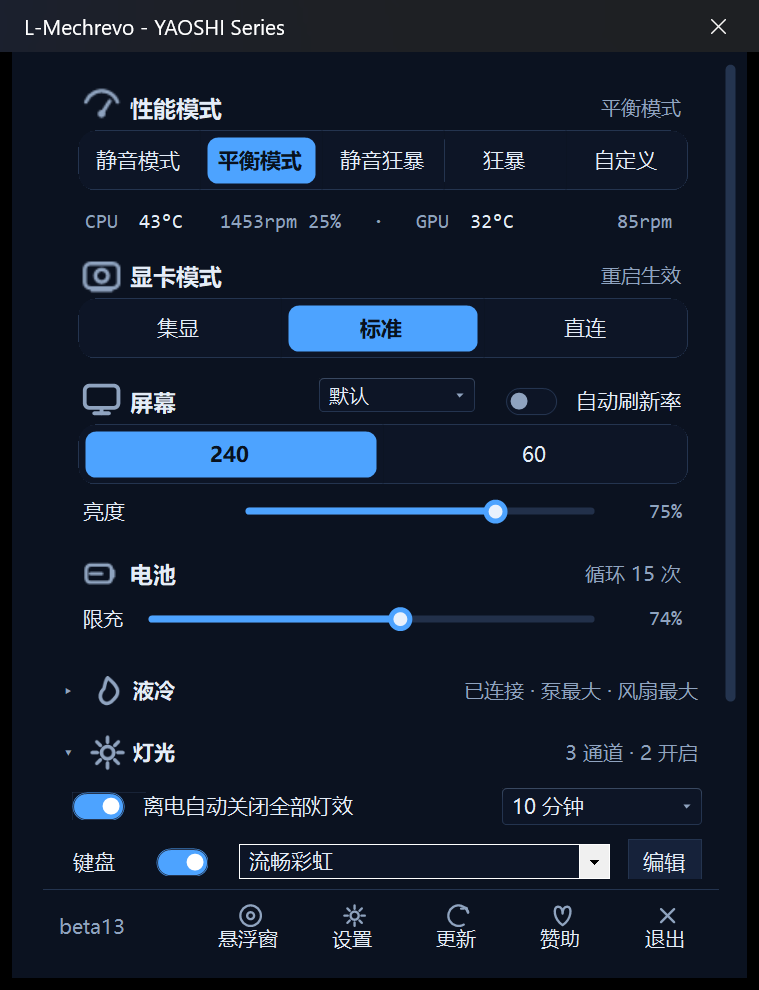
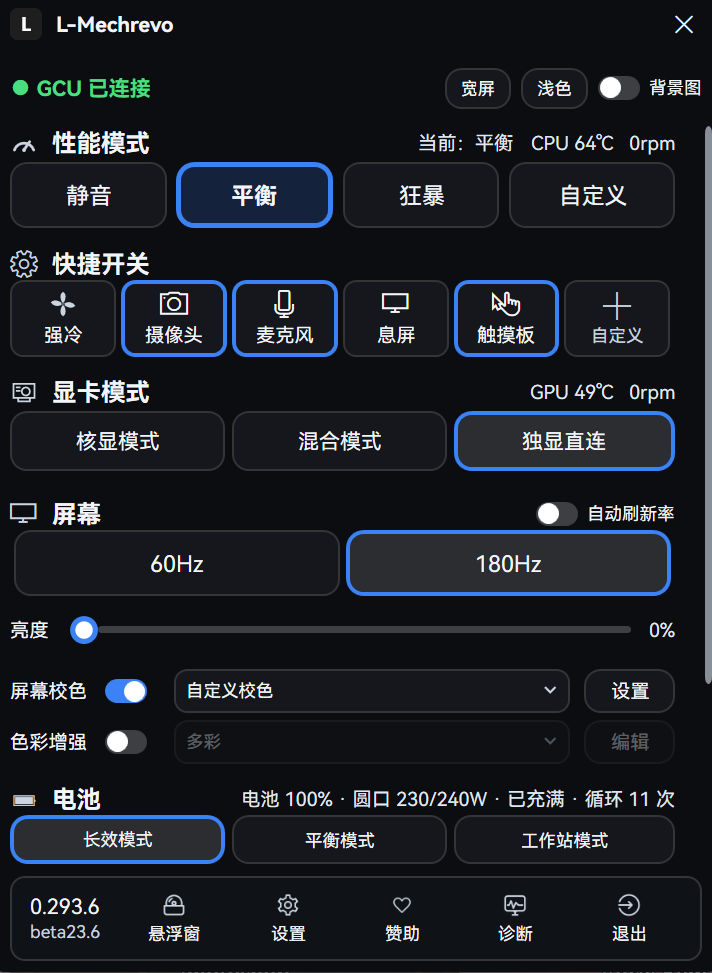
docs(readme): 更新迷你窗/宽屏总览、多配置自定义、外观设置与鸣谢引用

Changed region(s): [[0.0, 0.0, 1.0, 1.0], [0.927, 0.0, 0.9579, 0.0308]]

diff --git a/README.en.md b/README.en.md
@@ -6,9 +6,31 @@ L-Mechrevo is an open-source control center for Mechrevo laptops (Mechrevo / Uni
 
 ## Interface overview
 
-The main window is a scrollable dashboard. Top to bottom: performance modes, live telemetry, GPU mode, display, battery, liquid cooling, lighting, and extra switches. The footer holds the hardware overlay toggle, settings, update check, donate, and exit. Each section header has an arrow that collapses or expands it, and the collapsed state is remembered.
+The main window comes in two layouts, **compact** and **wide**, with the same controls and different information density:
 
-<img src="docs/images/1-dashboard.png" width="420" alt="Main dashboard">
+- Compact: a small vertical window for everyday tray use.
+- Wide: a horizontal dashboard for keeping full telemetry and settings on screen.
+- Both support collapsible sections, hotkeys, the hardware overlay and tray actions.
+
+<p>
+<img src="docs/images/1-dashboard.png" width="330" alt="Compact window">
+<img src="docs/images/1-dashboard-wide.png" width="760" alt="Wide dashboard">
+</p>
+
+### Appearance
+
+The UI is not limited to a fixed light/dark pair:
+
+- **Light / dark / follow system** modes.
+- **Accent color** from presets or a custom color.
+- **Background image** for the compact window and the wide window separately.
+- **Opacity** for the background, backdrop, footer, cards and buttons.
+- **Background overlay** strength for text readability.
+- **Wide-only background** so the wide layout can use a different image.
+
+<img src="docs/images/settings-appearance.png" width="520" alt="Appearance settings">
+
+<img src="docs/images/mini-background.png" width="300" alt="Custom background example">
 
 ## Features
 
@@ -26,9 +48,9 @@ The performance section on the dashboard shows segmented buttons. Tap to switch;
 
 The tray right-click menu can switch modes too, with entries "Silent (Office)", "Balanced (Game)", and "Turbo (Enhanced)". The active mode gets a check mark.
 
-### Custom performance mode (4 slots)
+### Custom performance mode (multiple slots)
 
-Tap "Custom" on the dashboard to open a separate window. Four slot buttons (Custom 1 to 4) sit at the top; each slot stores a complete parameter set and selecting a slot applies it. The active slot shows "Custom N active".
+Tap "Custom" on the dashboard to open a separate window. The dropdown at the top lets you create and manage multiple slots (Custom 1, 2, 3...); each slot stores a complete parameter set and selecting a slot applies it. The active slot shows "Custom N active".
 
 <img src="docs/images/2-custom-mode.png" width="420" alt="Custom performance mode">
 
@@ -67,7 +89,7 @@ The lighting section lists one row per channel: keyboard, lightbar, logo. Each r
 Two global settings sit at the top of the lighting section:
 
 - **Turn all lights off on battery**: unplugging the charger extinguishes every light; plugging back in restores them.
-- **Sleep timer**: off / 10 s (software) / 10 min to 2 h. After the machine sits idle for the set time all lights go out, and any input brings them back.
+- **Sleep timer**: off / 10 s / 15 s / 20 s / 30 s / 45 s / 1 min to 3 h. After the machine sits idle for the set time all lights go out, and any input brings them back.
 
 ### Liquid cooling (external water cooler)
 
@@ -126,7 +148,7 @@ Every toggle sends its command on tap and disables briefly until the command is 
 
 - **Live telemetry**: a row under the performance section shows CPU / GPU temperature, power draw, fan speed, and duty cycle.
 - **Hardware overlay**: a desktop overlay with four layouts you can click through and drag anywhere (footer "Overlay" toggle).
-- **Day / night theme**: switched in the footer "Settings" dialog.
+- **Appearance**: light / dark / follow system, accent color, background image, background opacity and wide-layout background; see "Interface overview → Appearance".
 - **Official console**: detects whether the vendor console is running and can isolate its UI and tray with one click, keeping only the GCU background service. Reversible at any time.
 - **In-app updates**: silently checks for new versions; the "Check updates" button grows a badge when one exists. Downloads are verified by SHA-256 before the updater launches.
 - **Launch at login**: implemented as a per-user scheduled task, no administrator rights needed ("Extra switches → Power & system → Launch at login").
@@ -169,7 +191,7 @@ Tap a segment in the performance panel; the active mode highlights. Silent Turbo
 
 ### Custom mode slots
 
-Tap "Custom" to open the custom mode window and pick slot Custom 1 to 4 at the top. Each slot holds the Windows power plan, turbo mode, CPU power limits (PL1 / PL2, plus PL4 on some models), GPU TGP target, GPU dynamic boost, fan shift sensitivity, GPU overclock, and a "Fan curve" button. Changes save to the selected slot immediately; "Reset slot to defaults" restores the current slot.
+Tap "Custom" to open the custom mode window and create or pick any number of slots (Custom 1, 2, 3...) at the top. Each slot holds the Windows power plan, turbo mode, CPU power limits (PL1 / PL2, plus PL4 on some models), GPU TGP target, GPU dynamic boost, fan shift sensitivity, GPU overclock, and a "Fan curve" button. Changes save to the selected slot immediately; "Reset slot to defaults" restores the current slot.
 
 ### Keyboard, lightbar, and logo lighting
 
@@ -219,6 +241,22 @@ Yes. Power limits, overclocking, and fan curves can affect stability and hardwar
 
 **The driver or antivirus blocked the install or update?**
 The installer deploys GCU service payloads and drivers, which some antivirus products or system policies may block. Allow the installer and the program folder in your antivirus and retry; if a driver was blocked and never deployed, the related features won't work.
+
+## Acknowledgements
+
+This project builds on these projects and community references:
+
+- **[G-Helper](https://github.com/seerge/g-helper)**: application framework and hardware-control approach (GPL-3.0-only).
+- **[PawnIO](https://github.com/namazso/PawnIO) / [PawnIO.Modules](https://github.com/namazso/PawnIO.Modules)**: low-level driver and SMU/MSR/EC modules (driver GPL-2.0, modules LGPL-2.1-or-later).
+- **[irusanov/SMUDebugTool](https://github.com/irusanov/SMUDebugTool) / [ZenStates-Core](https://github.com/irusanov/ZenStates-Core)**: AMD SMU protocol reference (GPL-3.0).
+- **[FlyGoat/RyzenAdj](https://github.com/FlyGoat/RyzenAdj)**: AMD SMU commands and power parameters (LGPL-3.0).
+- **[LibreHardwareMonitor](https://github.com/LibreHardwareMonitor/LibreHardwareMonitor)**: sensor readings (MPL-2.0).
+- **[MQTTnet](https://github.com/dotnet/MQTTnet)**, **[HidSharp](https://github.com/IntergatedCircuits/HidSharp)**, **[NvAPIWrapper](https://github.com/falahati/NvAPIWrapper)**, **[Newtonsoft.Json](https://github.com/JamesNK/Newtonsoft.Json)**: communication and hardware-access dependencies.
+- **[BetterRGB](https://github.com/ZavierChen/BetterRGB-ITE8291-Adaptive)**: keyboard HID protocol reference.
+- **[IYATT-yx/NullSignal](https://github.com/IYATT-yx/NullSignal)**: virtual-display screen-off approach.
+- **[JiaolongControl](https://github.com/GaoXanSheng/JiaolongControl)**: Baolongda interface facts (MIT).
+
+The exact versions, license texts and the distinction between derived code and protocol references are documented in `THIRD_PARTY_NOTICES.txt` and `LICENSES\` in the release package.
 
 ## License and corresponding source code
 
